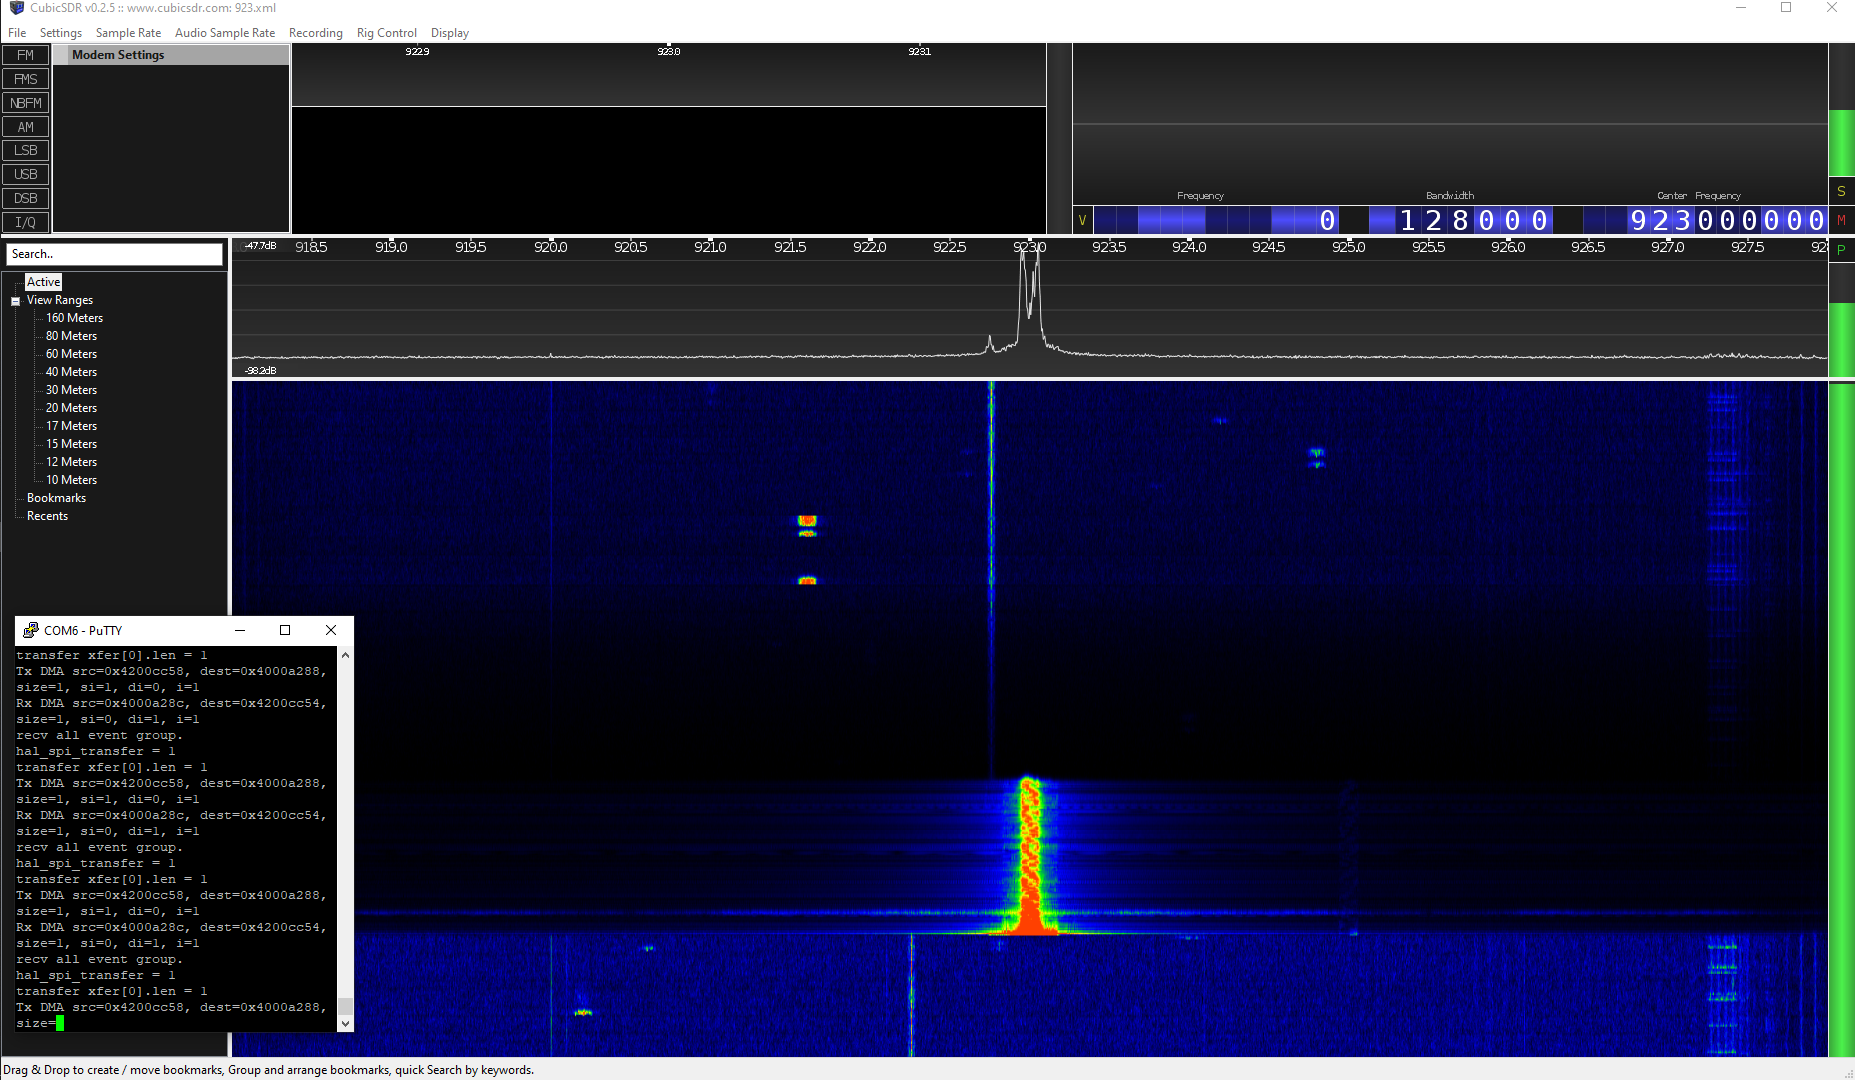
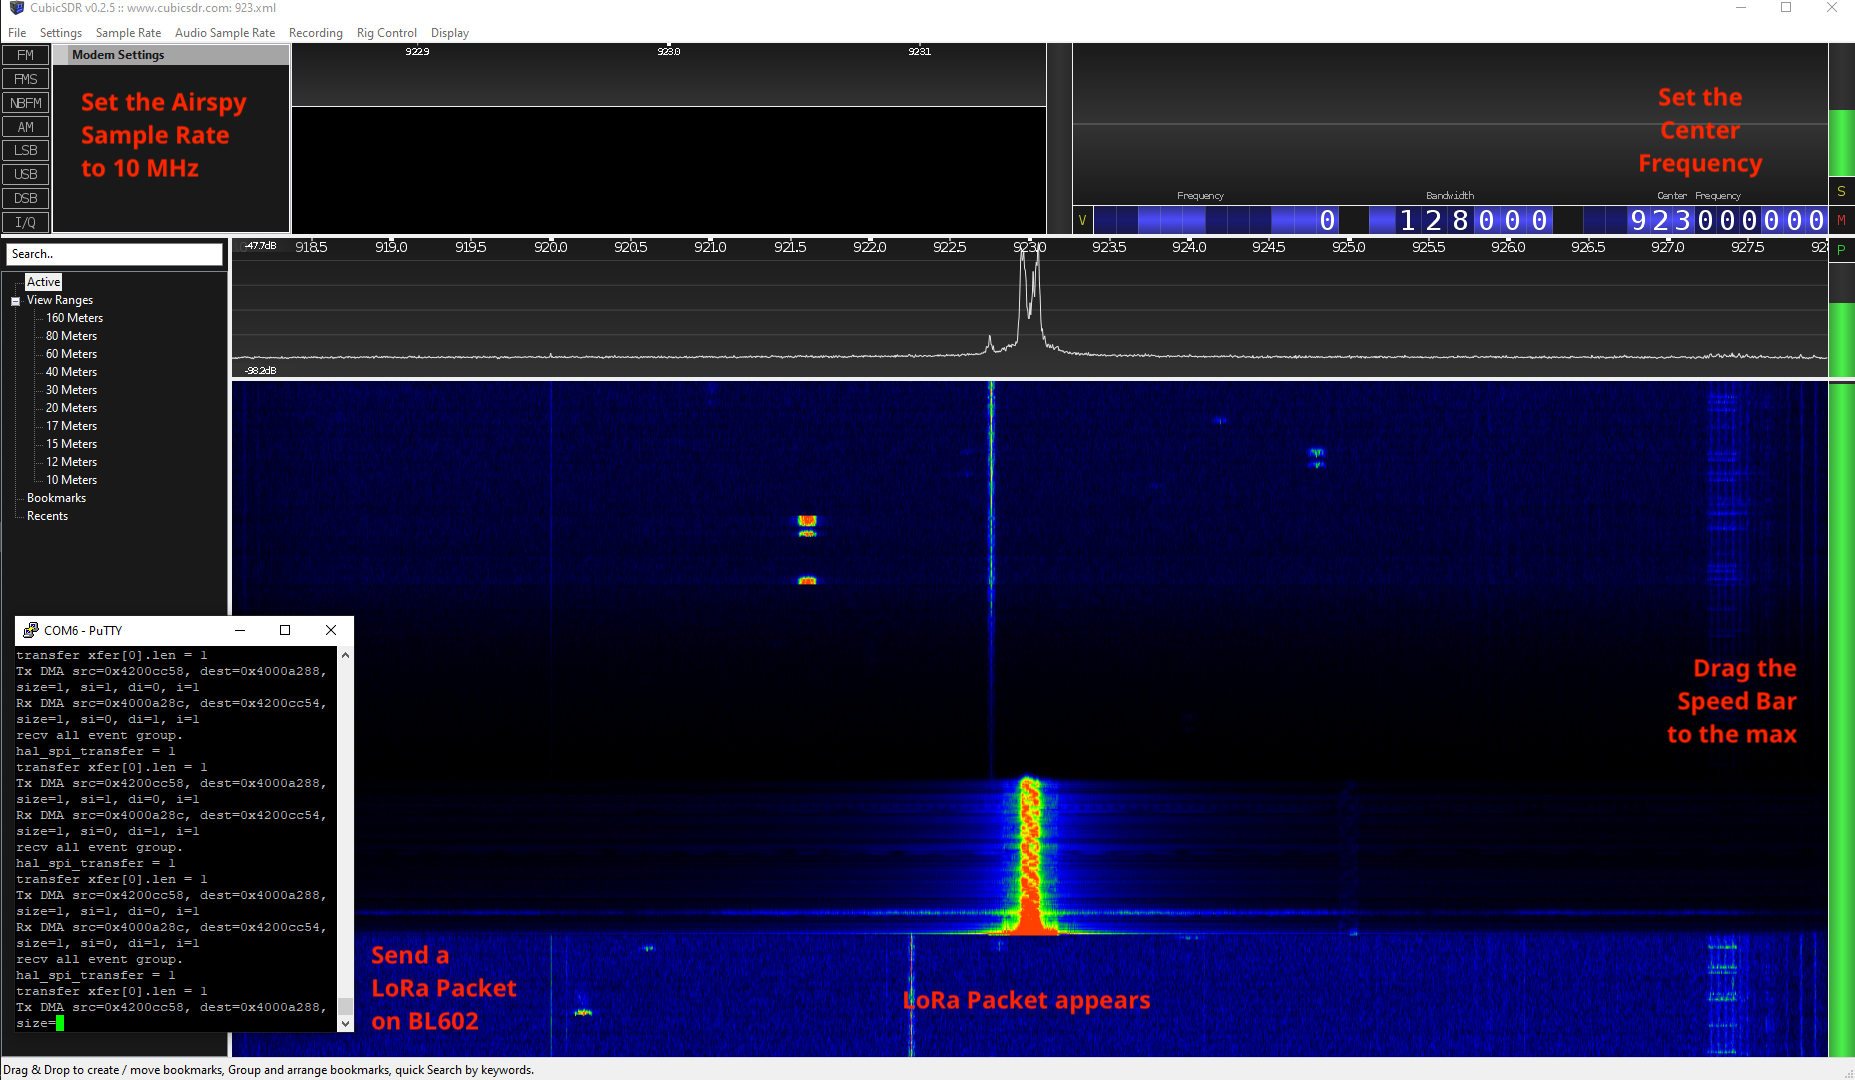
Update article

diff --git a/src/lora.md b/src/lora.md
@@ -509,6 +509,7 @@ Enter these commands...
 
 ```text
 # init_driver
+
 # read_registers
 ```
 
@@ -578,21 +579,41 @@ By transmitting packets in this unique chirping pattern, LoRa ensures that packe
 
 (LoRa doesn't guarantee 100% reliable delivery, of course)
 
-## Capture LoRa packets with Airspy SDR
-
-TODO
-
 ![Airspy R2 SDR](https://lupyuen.github.io/images/lora-airspy2.jpg)
 
 _Airspy R2 SDR_ 
 
-TODO
+## Capture LoRa packets with Airspy SDR
 
-![CubicSDR Software with Airspy R2 SDR](https://lupyuen.github.io/images/lora-sdr4.png)
+Let's capture and visualise our LoRa Packet with [__Airspy R2 SDR__](https://www.itead.cc/airspy.html) (Software Defined Radio)...
 
-_CubicSDR Software with Airspy R2 SDR_
+1.  __Place the Airspy R2 SDR__ close to our LoRa Antenna (See pic above)
 
-TODO
+1.  Download and install [__CubicSDR__](https://cubicsdr.com/)
+
+1.  Launch CubicSDR. Set the Airspy SDR __Sample Rate to 10 MHz__
+
+1.  Set the __Center Frequency__ to our LoRa Frequency
+
+1.  Click and drag the __Speed Bar__ (at right) to the maximum speed
+
+1.  Run the __LoRa Firmware for BL602__ and enter the commands...
+
+    ```text
+    # init_driver
+
+    # send_message
+    ```
+
+1.  Our __LoRa Packet should scroll down__ like so...
+
+![CubicSDR software with Airspy R2 SDR](https://lupyuen.github.io/images/lora-sdr4.png)
+
+_CubicSDR software with Airspy R2 SDR_
+
+[__Watch the video on YouTube__](https://youtu.be/9F30uEY-nIk)
+
+If there is a lot of background noise, cover the LoRa Transceiver and Airspy SDR with a Metal Pot (as an improvised [__Faraday Cage__](https://en.wikipedia.org/wiki/Faraday_cage))...
 
 ![Improvised Faraday Cage](https://lupyuen.github.io/images/lora-airspy3.jpg)
 
